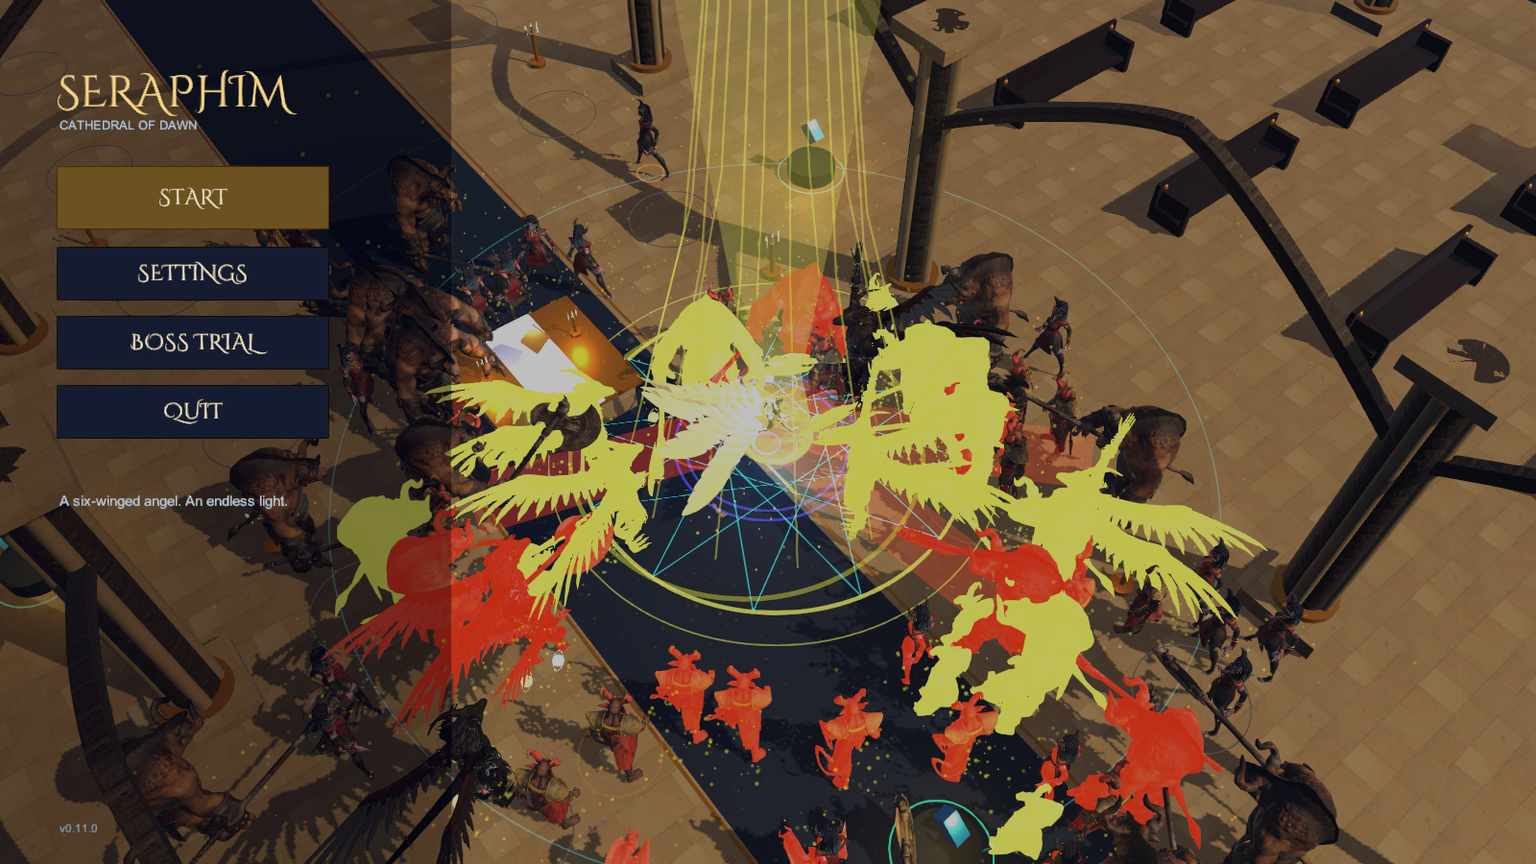
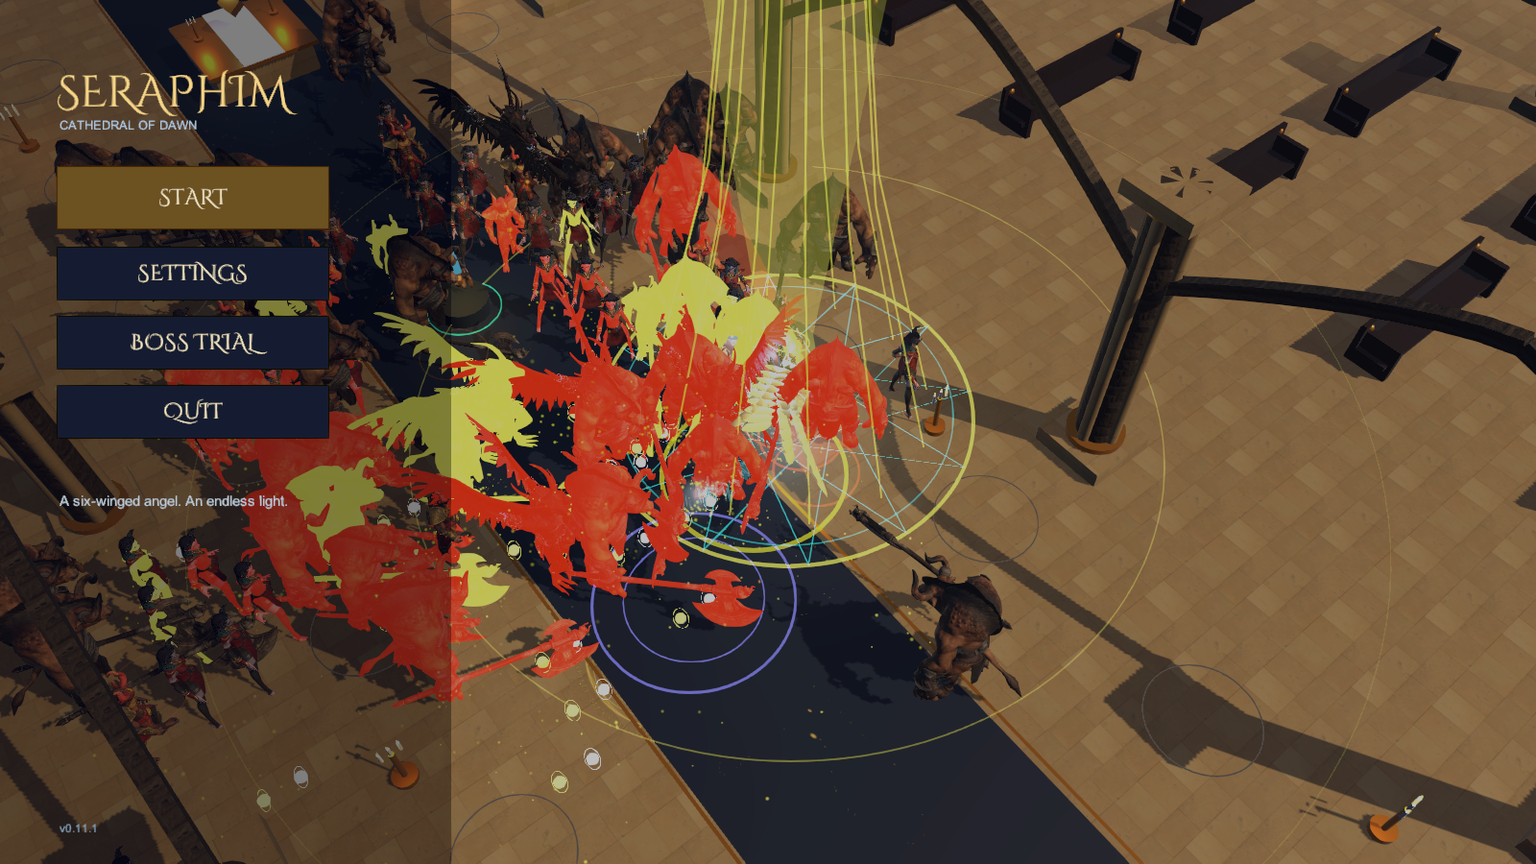
Keep the menu seraphim running across the cathedral in 0.11.1

diff --git a/Assets/Seraphim/Runtime/CathedralShowcase.cs b/Assets/Seraphim/Runtime/CathedralShowcase.cs
@@ -1,25 +1,98 @@
 using UnityEngine;
+using UnityEngine.AI;
 
 namespace Seraphim
 {
     public sealed class CathedralShowcase : MonoBehaviour
     {
         SanctuaryGame game;
-        float began,nextFill;
+        // Fixed destinations, rather than a moving target the hero can catch up to.
+        // Paths still come from the cathedral's baked navigation, including its altar.
+        static readonly Vector3[] destinations = {
+            new Vector3(-7,0,-30), new Vector3(15,0,-16),
+            new Vector3(7,0,20), new Vector3(-7,0,33),
+            new Vector3(-15,0,12), new Vector3(7,0,-7),
+            new Vector3(-15,0,-24), new Vector3(15,0,31)
+        };
+        readonly NavMeshPath path=new NavMeshPath();
+        readonly Vector3[] corners=new Vector3[32];
+        readonly float[] castAfter=new float[5];
+        readonly int[] casts=new int[5];
+        float nextFill,nextCast,progressAt;
+        float savedSpeed;
+        int savedPriority,goal,corner,cornerCount,castSlot;
+        ObstacleAvoidanceType savedAvoidance;
+        Vector3 progressPosition;
         public bool IsRunning { get; private set; }
         public int AutomatedCasts { get; private set; }
+        public int CompletedRuns { get; private set; }
+        public int NavigationRecoveries { get; private set; }
+        public int CastsFor(int slot) => casts[slot];
         public void Initialize(SanctuaryGame owner) { game=owner; }
         public void Begin()
         {
-            game.ResetPlayableWorld(); IsRunning=true; began=Time.time; nextFill=0; AutomatedCasts=0;
+            if (IsRunning) End();
+            game.ResetPlayableWorld(); IsRunning=true; nextFill=0; AutomatedCasts=0;
+            CompletedRuns=0; NavigationRecoveries=0; goal=-1; cornerCount=0; castSlot=0;
+            var agent=game.Player.Agent;
+            savedSpeed=agent.speed; savedPriority=agent.avoidancePriority; savedAvoidance=agent.obstacleAvoidanceType;
+            agent.speed=game.settings.menuMoveSpeed;
+            // The showcase runs through a dense crowd without yielding to every demon.
+            // Static obstacles are still swept by SeraphimMotor and the path corners.
+            agent.avoidancePriority=0; agent.obstacleAvoidanceType=ObstacleAvoidanceType.NoObstacleAvoidance;
+            progressPosition=game.Player.transform.position; progressAt=Time.time;
+            for (var slot=0;slot<5;slot++) { casts[slot]=0; castAfter[slot]=Time.time+slot*.28f; }
+            nextCast=Time.time;
+            SelectNextRun();
             game.Vitals.PresentationMode=true;
             Camera.main.GetComponent<SanctuaryCamera>().ShowcaseZoom=8;
             for (var i=0;i<72;i++) game.Enemies.SpawnRandom(i%12==11?DemonKind.RiftScourger:(DemonKind)(i%3),10);
         }
         public void End()
         {
+            if (!IsRunning) return;
+            game.Player.StopKeyboardMovement();
+            var agent=game.Player.Agent;
+            agent.speed=savedSpeed; agent.avoidancePriority=savedPriority; agent.obstacleAvoidanceType=savedAvoidance;
             IsRunning=false; Camera.main.GetComponent<SanctuaryCamera>().ShowcaseZoom=0;
             game.ResetPlayableWorld(); game.Enemies.TrimShowcasePool();
+        }
+        bool SelectNextRun()
+        {
+            var agent=game.Player.Agent;
+            for (var attempt=0;attempt<destinations.Length;attempt++)
+            {
+                goal=(goal+1)%destinations.Length;
+                if (!NavMesh.SamplePosition(destinations[goal],out var hit,2,agent.areaMask)
+                    || (hit.position-game.Player.transform.position).sqrMagnitude<36
+                    || !agent.CalculatePath(hit.position,path) || path.status!=NavMeshPathStatus.PathComplete) continue;
+                cornerCount=path.GetCornersNonAlloc(corners); corner=1;
+                if (cornerCount>1 && cornerCount<corners.Length) return true;
+            }
+            cornerCount=0; return false;
+        }
+        void RunAcrossCathedral()
+        {
+            var position=game.Player.transform.position;
+            // Recover if crowd displacement or a corner ever prevents actual progress.
+            if (Time.time-progressAt>=.65f)
+            {
+                if ((position-progressPosition).sqrMagnitude<1) { NavigationRecoveries++; SelectNextRun(); }
+                progressAt=Time.time; progressPosition=position;
+            }
+            if (cornerCount<2 && !SelectNextRun()) return;
+            var threshold=Mathf.Max(.9f,game.Player.Agent.speed*Time.deltaTime*1.5f);
+            while (corner<cornerCount && Vector3.Distance(position,corners[corner])<threshold) corner++;
+            if (corner>=cornerCount)
+            {
+                CompletedRuns++;
+                if (!SelectNextRun()) return;
+            }
+            // Look ahead only when the next segment clears solid architecture.
+            while (corner+1<cornerCount && !game.Player.Agent.Raycast(corners[corner+1],out _)) corner++;
+            var direction=corners[corner]-position; direction.y=0; direction.Normalize();
+            var forward=game.Player.KeyboardDirection(Vector2.up); var right=game.Player.KeyboardDirection(Vector2.right);
+            game.Player.MoveWithKeyboard(new Vector2(Vector3.Dot(direction,right),Vector3.Dot(direction,forward)),Time.deltaTime);
         }
         void Update()
         {
@@ -27,20 +100,27 @@ namespace Seraphim
             if (Time.time>=nextFill)
             {
                 nextFill=Time.time+.25f;
+                // Reuse stragglers behind the camera so each new run still has a battle.
+                var recycled=0;
+                foreach (var demon in game.Enemies.Enemies)
+                    if (demon.IsAlive && !demon.IsBoss && (demon.transform.position-game.Player.transform.position).sqrMagnitude>38*38)
+                    {
+                        demon.ReturnToPool();
+                        if (++recycled==8) break;
+                    }
                 for (var i=0;i<8 && game.Enemies.ActiveCount<game.settings.menuEnemyLimit;i++) game.Enemies.SpawnRandom(null,10);
             }
-            var t=Time.time-began;
-            var target=new Vector3(Mathf.Sin(t*.24f)*6,0,-6+Mathf.Cos(t*.24f)*5);
-            var delta=target-game.Player.transform.position; delta.y=0;
-            var forward=game.Player.KeyboardDirection(Vector2.up); var right=game.Player.KeyboardDirection(Vector2.right);
-            var direction=delta.normalized;
-            game.Player.MoveWithKeyboard(new Vector2(Vector3.Dot(direction,right),Vector3.Dot(direction,forward)),Time.deltaTime);
+            RunAcrossCathedral();
+            if (Time.time<nextCast) return;
             var enemy=game.Enemies.Nearest(game.Player.transform.position,28);
             var aim=enemy!=null?enemy.transform.position:game.Player.transform.position+game.Player.transform.forward*20;
-            for (var slot=0;slot<5;slot++)
+            for (var offset=0;offset<5;offset++)
             {
-                if (slot==4 && t<.7f) continue;
-                if (game.Skills.Remaining(slot)<=0 && game.Skills.TryUseDirected(slot,aim)) AutomatedCasts++;
+                var slot=(castSlot+offset)%5;
+                if (Time.time<castAfter[slot] || game.Skills.Remaining(slot)>0 || !game.Skills.TryUseDirected(slot,aim)) continue;
+                AutomatedCasts++; casts[slot]++; castSlot=(slot+1)%5;
+                nextCast=Time.time+.16f;
+                break;
             }
         }
     }

diff --git a/Assets/Seraphim/Runtime/FrontEndSmokeTests.cs b/Assets/Seraphim/Runtime/FrontEndSmokeTests.cs
@@ -7,6 +7,59 @@ namespace Seraphim
 {
     public sealed partial class PrototypeSmokeTest
     {
+        [Serializable] sealed class ShowcaseReport
+        {
+            public float seconds,distance,averageSpeed,minimumFiveSecondSpeed,longestSlowStretch,width,depth;
+            public int completedRuns,navigationRecoveries,casts,maximumEnemies;
+        }
+        ShowcaseReport showcaseReport;
+
+        IEnumerator ShowcaseMovementChecks(float seconds)
+        {
+            var metrics=new ShowcaseReport { minimumFiveSecondSpeed=float.MaxValue };
+            var began=Time.time; var previous=game.Player.transform.position;
+            var minimum=previous; var maximum=previous;
+            var windowAt=began; var windowDistance=0f; var slowStretch=0f;
+            var onNavigation=true; var bounded=true; var firstCapture=false;
+            while (Time.time-began<seconds)
+            {
+                yield return null;
+                var position=game.Player.transform.position;
+                var distance=Vector3.Distance(previous,position); previous=position;
+                metrics.distance+=distance; windowDistance+=distance;
+                minimum=Vector3.Min(minimum,position); maximum=Vector3.Max(maximum,position);
+                slowStretch=distance<2*Time.deltaTime?slowStretch+Time.deltaTime:0;
+                metrics.longestSlowStretch=Mathf.Max(metrics.longestSlowStretch,slowStretch);
+                onNavigation&=UnityEngine.AI.NavMesh.SamplePosition(position,out _,.2f,UnityEngine.AI.NavMesh.AllAreas);
+                metrics.maximumEnemies=Mathf.Max(metrics.maximumEnemies,game.Enemies.ActiveCount);
+                bounded&=game.Enemies.ActiveCount<=game.settings.menuEnemyLimit && game.Audio.ActiveVoices<=20;
+                if (Time.time-windowAt>=5)
+                {
+                    metrics.minimumFiveSecondSpeed=Mathf.Min(metrics.minimumFiveSecondSpeed,windowDistance/(Time.time-windowAt));
+                    windowAt=Time.time; windowDistance=0;
+                }
+                if (!firstCapture && Time.time-began>=seconds*.5f)
+                {
+                    firstCapture=true; yield return Capture("24-menu-running.png");
+                }
+            }
+            metrics.seconds=Time.time-began; metrics.averageSpeed=metrics.distance/metrics.seconds;
+            metrics.width=maximum.x-minimum.x; metrics.depth=maximum.z-minimum.z;
+            metrics.completedRuns=game.Attract.CompletedRuns; metrics.navigationRecoveries=game.Attract.NavigationRecoveries;
+            metrics.casts=game.Attract.AutomatedCasts; showcaseReport=metrics;
+            Check(metrics.averageSpeed>=game.settings.menuMoveSpeed*.8f && metrics.minimumFiveSecondSpeed>=game.settings.menuMoveSpeed*.7f,
+                "Menu sustains actual running speed across successive five-second windows");
+            Check(metrics.longestSlowStretch<1,"Menu hero never settles into a stationary or creeping attack loop");
+            Check(metrics.completedRuns>=3 && metrics.width>15 && metrics.depth>25,"Menu hero completes distant runs across the cathedral");
+            Check(onNavigation,"Extended menu movement stays on cathedral navigation");
+            Check(bounded,"Extended showcase preserves enemy and audio pool limits");
+            var allPowers=true; for (var slot=0;slot<5;slot++) allPowers&=game.Attract.CastsFor(slot)>0;
+            Check(allPowers,"All five powers cast while the menu hero runs");
+            if (seconds>=60) Check(game.Attract.CastsFor(4)>=3,"Menu running continues through three Word of God cycles");
+            Debug.Log("SERAPHIM_SHOWCASE: "+JsonUtility.ToJson(metrics));
+            yield return Capture("25-menu-running-later.png");
+        }
+
         IEnumerator FrontEndChecks()
         {
             var audio=game.Audio;
@@ -30,6 +83,8 @@ namespace Seraphim
                 Check(!game.Player.MoveFromScreen(Camera.main.WorldToScreenPoint(new Vector3(6,0,-1))),"Main menu blocks world clicking");
                 Check(audio.ActiveVoices<=20,"Showcase sound effects use a bounded voice pool");
                 yield return Capture("21-main-menu.png");
+                var extended=Array.Exists(Environment.GetCommandLineArgs(),a=>a=="-seraphim-front-end-only");
+                yield return ShowcaseMovementChecks(extended?90:12);
                 var deadline=Time.realtimeSinceStartup+12;
                 while (!audio.MusicReady && Time.realtimeSinceStartup<deadline) yield return null;
                 Check(audio.MusicReady && audio.MusicSource.loop && audio.MusicSource.isPlaying,"Background music loads and loops in the exported player");
@@ -45,6 +100,9 @@ namespace Seraphim
                 }
                 game.FrontEnd.OpenSettings(); yield return null;
                 Check(game.FrontEnd.IsSettings && Time.timeScale==1 && game.Attract.IsRunning,"Menu settings keep the background battle running");
+                var settingsPosition=game.Player.transform.position;
+                yield return new WaitForSeconds(.6f);
+                Check(Vector3.Distance(settingsPosition,game.Player.transform.position)>3,"Menu hero keeps running behind audio settings");
                 game.FrontEnd.MusicSlider.value=.2f; game.FrontEnd.EffectsSlider.value=0;
                 Check(Mathf.Abs(audio.MusicSource.volume-.04f)<.0001f && audio.EffectsPeakGain==0,"Effects mute independently while music retains its own volume");
                 game.FrontEnd.MusicSlider.value=0; game.FrontEnd.EffectsSlider.value=.65f;
@@ -62,6 +120,10 @@ namespace Seraphim
                 var ready=true; for (var slot=0;slot<5;slot++) ready&=game.Skills.Remaining(slot)<=0;
                 Check(ready && game.Vitals.Life==game.Vitals.MaxLife && game.Vitals.Spirit==game.Vitals.MaxSpirit,"Fresh campaign restores resources and all five ability cooldowns");
                 Check(game.Enemies.PopulationLimit==24 && Camera.main.GetComponent<SanctuaryCamera>().ShowcaseZoom==0 && game.Hud.HudCanvas.enabled,"Campaign restores normal camera, HUD and population cap");
+                Check(Mathf.Approximately(game.Player.Agent.speed,game.settings.moveSpeed)
+                    && game.Player.Agent.avoidancePriority==50
+                    && game.Player.Agent.obstacleAvoidanceType==UnityEngine.AI.ObstacleAvoidanceType.HighQualityObstacleAvoidance,
+                    "Starting restores campaign movement speed and crowd avoidance");
                 Check(game.Player.InputEnabled && game.Skills.InputEnabled && game.Gamepads.InputEnabled && !EventSystem.current.sendNavigationEvents,"Gameplay resumes concurrent keyboard, mouse and controller input");
                 yield return Capture("23-started-game.png");
                 game.FrontEnd.OpenSettings(); var paused=Time.time;

diff --git a/Assets/Seraphim/Editor/ProjectBuilder.cs b/Assets/Seraphim/Editor/ProjectBuilder.cs
@@ -60,7 +60,7 @@ namespace Seraphim.Editor
         {
             PlayerSettings.companyName = "Seraphim";
             PlayerSettings.productName = "Seraphim";
-            PlayerSettings.bundleVersion = "0.11.0";
+            PlayerSettings.bundleVersion = "0.11.1";
             PlayerSettings.colorSpace = ColorSpace.Linear;
             PlayerSettings.defaultScreenWidth = 1600;
             PlayerSettings.defaultScreenHeight = 900;
@@ -282,6 +282,8 @@ namespace Seraphim.Editor
                 throw new BuildFailedException("Pulse duration, Radiance cooldown, or demon population configuration is invalid.");
             if (game.settings.menuEnemyLimit<32 || game.settings.menuEnemyLimit>128)
                 throw new BuildFailedException("Main-menu showcase population must remain bounded between 32 and 128.");
+            if (game.settings.menuMoveSpeed<6.5f || game.settings.menuMoveSpeed>12)
+                throw new BuildFailedException("Main-menu running speed must be between 6.5 and 12 meters per second.");
             if (game.settings.bossHealth<=0 || game.settings.bossMoveSpeed<=0 || game.settings.bossMeteorDamage<=0
                 || game.settings.bossSlashDamage<=0 || game.settings.bossFireDamage<=0 || game.settings.bossNovaDamage<=0 || game.settings.bossRestSeconds<3)
                 throw new BuildFailedException("Final boss health, attacks, speed or arrival rest is invalid.");

diff --git a/Assets/Seraphim/Runtime/PrototypeSmokeTest.cs b/Assets/Seraphim/Runtime/PrototypeSmokeTest.cs
@@ -19,6 +19,7 @@ namespace Seraphim
             public string[] detectedGamepads;
             public string music;
             public float musicSeconds;
+            public ShowcaseReport showcase;
             public string[] passed;
             public string[] failures;
         }
@@ -245,7 +246,7 @@ namespace Seraphim
             }
             detectedGamepads=hardware.ToArray();
             var report = new Report { success=failures.Count==0,engine=Application.unityVersion,avatarHeight=avatarHeight,detectedGamepads=detectedGamepads,
-                music=game.Audio.MusicCredit,musicSeconds=game.Audio.MusicReady?game.Audio.MusicSource.clip.length:0,passed=passed.ToArray(),failures=failures.ToArray() };
+                music=game.Audio.MusicCredit,musicSeconds=game.Audio.MusicReady?game.Audio.MusicSource.clip.length:0,showcase=showcaseReport,passed=passed.ToArray(),failures=failures.ToArray() };
             File.WriteAllText(Path.Combine(output,"results.json"),JsonUtility.ToJson(report,true));
             Debug.Log($"SERAPHIM_SMOKE: {passed.Count} passed; {failures.Count} failed. Results: {output}");
             Application.Quit(report.success?0:1);

diff --git a/Assets/Seraphim/Runtime/SanctuarySettings.cs b/Assets/Seraphim/Runtime/SanctuarySettings.cs
@@ -72,6 +72,7 @@ namespace Seraphim
         public float enemyDamageGrowth = .18f;
         [Header("Main menu showcase")]
         [Range(32,128)] public int menuEnemyLimit = 96;
+        [Range(6.5f,12)] public float menuMoveSpeed = 9;
         [Header("Final boss")]
         public float bossHealth = 9600;
         public float bossMoveSpeed = 2.7f;

diff --git a/README.md b/README.md
@@ -6,7 +6,7 @@ This repository is the Unity project root. On this computer it lives at `F:\Temp
 
 [Wave-ten pressure](Docs/images/wave-ten-pressure.png) · [Ember fields](Docs/images/ember-field.png) · [Guard charges](Docs/images/guard-charge.png) · [Controller HUD](Docs/images/controller-hud.png) · [Cathedral overview](Docs/images/cathedral-overview.png) · [Recorded validation results](Docs/validation.json)
 
-[Main menu](Docs/images/main-menu.png) · [Audio settings](Docs/images/audio-settings.png)
+[Main menu](Docs/images/main-menu.png) · [Menu running](Docs/images/menu-running.png) · [Later in the battle](Docs/images/menu-running-later.png) · [Showcase movement results](Docs/showcase-validation.json) · [Audio settings](Docs/images/audio-settings.png)
 
 [Vorath, Herald of Ash](Docs/images/vorath.png) · [Meteor rain](Docs/images/meteor-rain.png) · [Hellfire fan](Docs/images/hellfire-fan.png) · [Infernal greatsword](Docs/images/reaping-scythe.png)
 
@@ -22,7 +22,7 @@ The previews are camera renders from the exported Windows player, including its 
 
 Double-click **Play Seraphim.cmd** after a successful build. The executable is `Builds/Windows/Seraphim.exe`; distribute its entire folder, including `Seraphim_Data`, not just the executable.
 
-Version **0.11.0** opens at a shaded main menu with **Start** in the upper left. Its background is a live, autonomous battle: a moving seraphim uses all five powers against up to **96 demons**, with eight simultaneous special attacks. Start clears the demonstration and begins a fresh ten-wave campaign with the normal 24-enemy cap, followed by a final boss. **Boss Trial** skips directly to that fight for practice. The demonstration grants no campaign score, drops, or cooldown penalties.
+Version **0.11.1** opens at a shaded main menu with **Start** in the upper left. Its background is a live, autonomous battle: the seraphim runs at **9 meters per second** between distant destinations across the cathedral, casting all five powers while moving against up to **96 demons**, with eight simultaneous special attacks. Navigation routes around architecture, and distant stragglers are recycled near the action. Casts are staggered rather than fired simultaneously. Start clears the demonstration and restores the campaign's normal movement, crowd avoidance and 24-enemy cap for a fresh ten-wave campaign, followed by a final boss. **Boss Trial** skips directly to that fight for practice. The demonstration grants no campaign score, drops, or cooldown penalties.
 
 Open **Settings** from the menu or the in-game button to adjust **Music** and **Sound Effects** separately. Zero mutes a channel, and volumes persist between runs. Escape or controller Options/Start opens in-game settings and pauses combat; music continues. Circle/B or Escape returns. Main-menu buttons and sliders support mouse, keyboard arrows/Enter, and controller navigation. Quit is available on the main menu.
 
@@ -163,7 +163,7 @@ Use `.\Tools\Smoke-Test.ps1 -ControllerOnly` for focused controller checks. The 
 
 Use `.\Tools\Smoke-Test.ps1 -DifficultyOnly` for pressure checks. These exercise late-wave melee damage, marked-field damage and escape, lightning interrupts, special-attack limits, charge dodges and wall collisions, pooled difficulty reset, a three-power kill, and a live 24-enemy wave-ten scene. Wave progression in the scheduler checks uses an accelerated clock; dodges and damage checks run in real time. The wave-ten preview uses a wider camera view. Human playtesting is still needed to assess the challenge and frame rate.
 
-Use `.\Tools\Smoke-Test.ps1 -FrontEndOnly` for menu/showcase, start/reset, pause/resume, independent volumes, preference persistence, and music-loading checks. Add `-FallbackMusic` to verify the original soundtrack without removing the authorized local recording. These checks restore the user's saved volumes afterward. Audio signal measurements verify playback, not perceived musical quality or speaker routing.
+Use `.\Tools\Smoke-Test.ps1 -FrontEndOnly` for menu/showcase, start/reset, pause/resume, independent volumes, preference persistence, and music-loading checks. This includes a **90-second menu movement soak** through three ultimate cycles, measuring actual travel, successive five-second speeds, slow stretches, cathedral coverage, navigation and population bounds. The full suite includes a shorter 12-second sample. Reports include these movement metrics, and screenshots capture different points along the route. Add `-FallbackMusic` to verify the original soundtrack without removing the authorized local recording. These checks restore the user's saved volumes afterward. Audio signal measurements verify playback, not perceived musical quality or speaker routing.
 
 Use `.\Tools\Smoke-Test.ps1 -CharactersOnly` for imported model checks and close views of FallenAngel and the four demons. These verify textured material slots, humanoid retargeting, distinct enemy skins, skeleton-driven movement, both LODs, scale and health-bar alignment, damage and pooled reuse, plus the Scourger's rift damage, dodge and lightning interruption. The boss source was a static joined mesh. It now has fitted skin weights, a separate rigid sword attached to the right hand, and a cape joint for skeletal animation.
 

diff --git a/AGENTS.md b/AGENTS.md
@@ -15,6 +15,7 @@
 - Support keyboard/mouse and gamepads concurrently. Skill order is Radiance, Lance, Chain, Inferno, Word of God. Controller face-button positions are South primary, West spears, East lightning, North fire; D-pad Up activates slot 5. Keep analog steering, deadzones, hot-plug cleanup, shared cooldowns, and controller prompts coherent. Input System 1.20.1 and Both input back ends are pinned.
 - Difficulty now ramps to 64 demons in wave ten, with a 24-enemy living cap and four concurrent special attacks. Preserve readable fixed telegraphs, interruptible windups/charges, navigable charge paths, and complete threat/stat cleanup when demons die or return to a pool.
 - Main-menu showcase uses a separate 96-enemy cap and autonomous movement/powers. Starting must clear demonstration state and restore campaign camera, resources, cooldowns and input. In-game settings pause combat; menu settings keep the showcase running. Preserve simultaneous keyboard/mouse/controller play after closing UI.
+- Showcase navigation must sustain full-speed runs between distant reachable destinations, with casts performed while moving. Restore campaign speed and crowd avoidance on exit. Front-end checks measure actual travel over time, including a 90-second focused soak; do not replace this with requested movement speed or a moving target the hero can catch.
 - Keep independent persistent Music and Sound Effects volumes and the original audio fallback. The owner-authorized Track Realm recording stays in ignored LocalAudio/ and local Windows exports, with origin and checksum receipts; do not publish its raw audio. Stream the long OGG from disk. Front-end smoke checks must restore saved volume preferences.
 - After ten waves, queue Vorath and require his defeat for victory. Boss Trial uses the same encounter. Preserve all five powers against his shared enemy health pool, three phases, locked attack geometry, meteor fire, wall-blocked projectiles, nova safe zones and directional scythe dodge routes. Boss death/retry/menu/replay must clear every hazard and temporary camera setting; an ordinary spawn must never reuse the dedicated boss. Keep boss hazards bounded to 18, separate from ordinary demon attacks, and retry the boss without repeating ten waves.
 - Boss damage must stop at 65% and 30% health so burst damage cannot skip phase transitions. Defer spawning until Update, outside damage iteration. Transition wards are temporary and visibly labeled. Phase two summons up to six demons; phase three animates 1.55x boss growth and 1.35x summon growth, with a ten-summon cap. Summons attack, score and drop normal resources; clear them on boss death, retry, menu or replay and reset all growth/flags when pooled enemies are reused.
